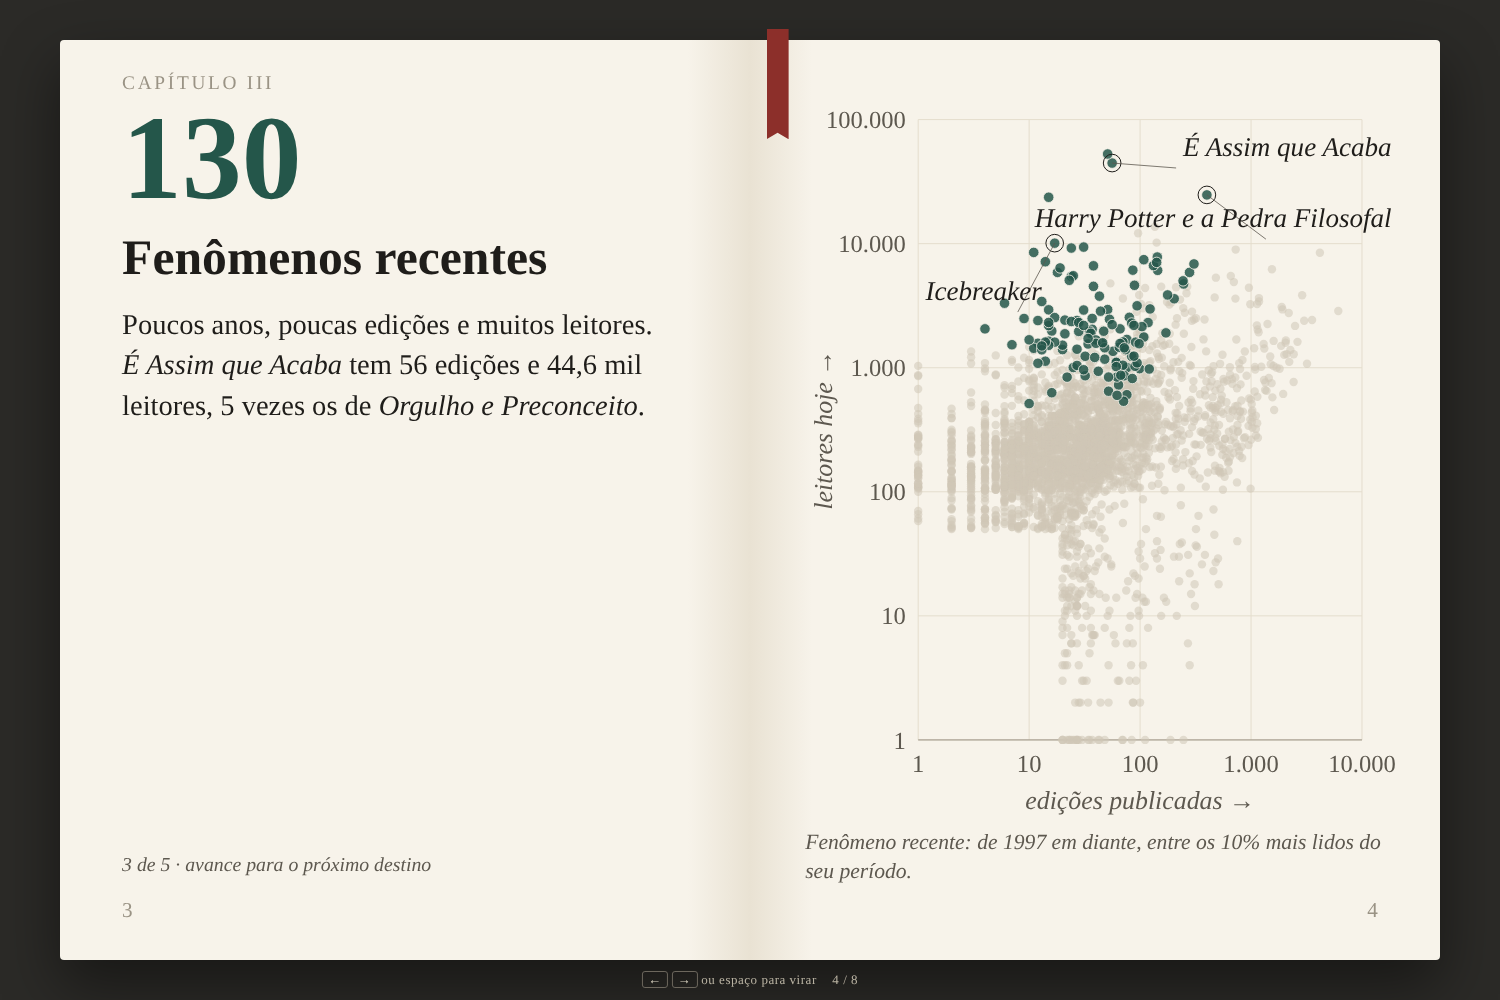
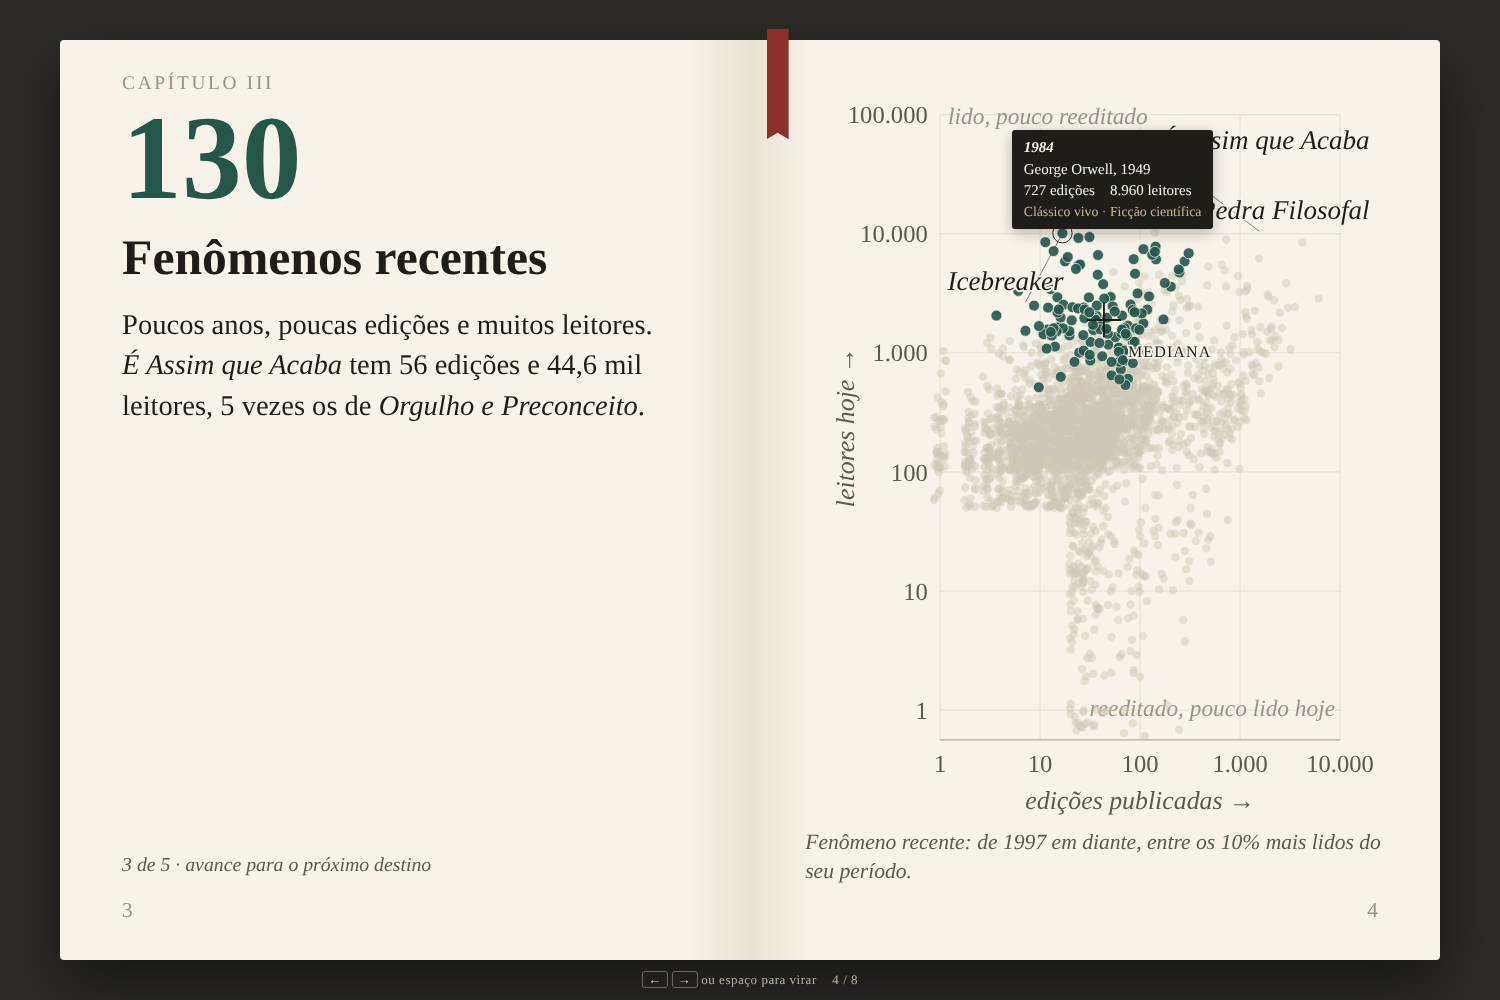
Livro: gráficos do capítulo III mais legíveis e interativos
- Espalhamento leve e fixo nos pontos, para desfazer as colunas de livros
  com 1, 2, 3... edições e a linha dos livros com 0 leitores
- Dica ao passar o mouse: título, autor, ano, edições, leitores, perfil e
  gênero do ponto mais próximo
- Os pontos mudam de cor com transição entre os passos, sem redesenhar
- Cruz na mediana de cada perfil (também nos painéis da fig. 2)
- Rótulos com contorno da cor do papel e nomes das regiões do gráfico
- Painéis da fig. 2 com letra maior
- Clique para virar a página passa a ser tratado no livro, para as zonas
  invisíveis não taparem o mouse sobre os gráficos

Refs #17

Claude-Session: https://claude.ai/code/session_01T3gWbEhrb4wQZiGx9BsJrq

diff --git a/livro/index.html b/livro/index.html
@@ -149,6 +149,22 @@ svg text { font-family: var(--serif); fill: var(--tinta-2); }
 .eixo line { stroke: var(--tinta-3); stroke-width: 1; }
 .grade line { stroke: #e4ddcd; stroke-width: 1; }
 .rotulo-livro { font-style: italic; fill: var(--tinta); }
+.halo { paint-order: stroke; stroke: var(--papel); stroke-width: 4px; stroke-linejoin: round; }
+.zona-graf { font-style: italic; fill: var(--tinta-3); }
+circle.pt { fill: var(--ponto); fill-opacity: .8; transition: fill .45s ease, fill-opacity .45s ease, r .45s ease; }
+circle.pt.apagado { fill-opacity: .45; }
+circle.pt.ativo { fill: var(--encadernacao); fill-opacity: .9; stroke: var(--papel); stroke-width: .8; }
+.mediana { stroke: var(--tinta); stroke-width: 2; fill: none; }
+.rotulo-mediana { fill: var(--tinta); font-variant-caps: all-small-caps; letter-spacing: .05em; }
+.dica {
+  position: absolute; z-index: 9; pointer-events: none; max-width: 30%;
+  background: var(--tinta); color: var(--papel); border-radius: 3px; padding: .55em .75em;
+  font-size: clamp(11px, 1.05vw, 15px); line-height: 1.3; display: grid; gap: .15em;
+  box-shadow: 0 4px 14px rgba(0,0,0,.25);
+}
+.dica b { font-weight: 600; font-style: italic; }
+.dica .linhas { display: flex; gap: 1em; font-variant-numeric: lining-nums tabular-nums; }
+.dica .perfil { color: #c9b98f; font-size: .92em; }
 .linha-rotulo { stroke: var(--tinta-2); stroke-width: .8; fill: none; }
 
 /* tabela do apêndice */
@@ -160,7 +176,8 @@ ol.notas { margin: 0; padding-left: 1.2em; display: grid; gap: 1.1cqh; font-size
 ol.notas li::marker { color: var(--encadernacao); font-weight: 600; }
 
 /* ---------- controles ---------- */
-.zona { position: absolute; top: 0; bottom: 0; width: 50%; z-index: 6; cursor: pointer; background: none; border: 0; }
+.zona { position: absolute; top: 0; bottom: 0; width: 50%; z-index: 6; background: none; border: 0; pointer-events: none; }
+.livro { cursor: pointer; }
 .zona.ant { left: 0; cursor: w-resize; }
 .zona.prox { right: 0; cursor: e-resize; }
 .zona:focus-visible { outline: 2px solid #c9b98f; outline-offset: -6px; }
@@ -186,6 +203,7 @@ ol.notas li::marker { color: var(--encadernacao); font-weight: 600; }
 }
 @media (prefers-reduced-motion: reduce) {
   .folha.vira, .folha.volta { animation-duration: .01s; }
+  circle.pt { transition: none; }
   .passo, .fita { transition: none; }
 }
 </style>
@@ -195,6 +213,7 @@ ol.notas li::marker { color: var(--encadernacao); font-weight: 600; }
   <div class="pagina esq" id="esq"></div>
   <div class="pagina dir" id="dir"></div>
   <div class="fita" id="fita" aria-hidden="true"></div>
+  <div class="dica" id="dica" role="tooltip" hidden></div>
   <button class="zona ant" id="ant" aria-label="Voltar"></button>
   <button class="zona prox" id="prox" aria-label="Avançar"></button>
 </div>
@@ -241,64 +260,122 @@ function el(nome, attrs, pai) {
 }
 const log = Math.log10;
 
-function dispersao(svg, opcoes) {
-  const {destaque = null, rotulos = [], compacto = false} = opcoes;
+// espalhamento leve e fixo (o mesmo a cada abertura) para desfazer as colunas
+// de livros com 1, 2, 3... edições ou leitores, que se empilhariam no mesmo ponto
+function sorte(id, sal) {
+  let h = 2166136261 ^ sal;
+  for (let i = 0; i < id.length; i++) { h ^= id.charCodeAt(i); h = Math.imul(h, 16777619); }
+  return ((h >>> 0) % 10000) / 10000 - .5;
+}
+function espalha(v, id, sal) {
+  const base = log(Math.max(v, 1));
+  const passoLog = v < 1 ? .3 : log((Math.max(v, 1) + 1) / Math.max(v, 1));   // distância até o próximo inteiro
+  const amp = Math.min(.12, passoLog * .8);
+  return base + sorte(id, sal) * amp - (v < 1 ? .16 : 0);                     // 0 leitores fica logo abaixo do 1
+}
+LIVROS.forEach(l => { l.lx = espalha(l.edicoes, l.id, 7); l.ly = espalha(l.leitores, l.id, 13); });
+
+function montarDispersao(svg, compacto) {
   const caixa = svg.getBoundingClientRect();
   const W = caixa.width, H = caixa.height;
-  const fs = compacto ? H * 0.06 : H * 0.034;
-  const m = compacto ? {t: fs * .4, r: fs * .4, b: fs * 1.6, l: fs * 2.6} : {t: fs, r: fs * 1.2, b: fs * 3.2, l: fs * 4.6};
+  const fs = compacto ? Math.max(9, H * .062) : H * .034;
+  const m = compacto ? {t: fs * .5, r: fs * .5, b: fs * 1.7, l: fs * 3.1} : {t: fs * .8, r: fs * 1.2, b: fs * 3.2, l: fs * 4.6};
   svg.setAttribute("viewBox", `0 0 ${W} ${H}`);
   svg.innerHTML = "";
-  const X = v => m.l + (log(Math.max(v, 1)) / 4) * (W - m.l - m.r);       // 1 a 10.000 edições
-  const Y = v => H - m.b - (log(Math.max(v, 1)) / 5) * (H - m.t - m.b);   // 1 a 100.000 leitores
-
-  const grade = el("g", {class: "grade"}, svg);
-  const eixo = el("g", {class: "eixo"}, svg);
-  const tx = compacto ? [1, 100, 10000] : [1, 10, 100, 1000, 10000];
-  const ty = compacto ? [1, 100, 10000] : [1, 10, 100, 1000, 10000, 100000];
-  tx.forEach(v => {
-    el("line", {x1: X(v), x2: X(v), y1: m.t, y2: H - m.b}, grade);
-    el("text", {x: X(v), y: H - m.b + fs * 1.3, "text-anchor": "middle", "font-size": fs}, eixo).textContent = fmt(v);
+  const X = lv => m.l + (lv / 4) * (W - m.l - m.r);            // log10 de 1 a 10.000 edições
+  const Y = lv => H - m.b - ((lv + .25) / 5.25) * (H - m.t - m.b); // log10 de ~0,5 a 100.000 leitores
+  const grade = el("g", {class: "grade"}, svg), eixo = el("g", {class: "eixo"}, svg);
+  (compacto ? [0, 2, 4] : [0, 1, 2, 3, 4]).forEach(e => {
+    el("line", {x1: X(e), x2: X(e), y1: m.t, y2: H - m.b}, grade);
+    el("text", {x: X(e), y: H - m.b + fs * 1.3, "text-anchor": "middle", "font-size": fs}, eixo).textContent = fmt(10 ** e);
   });
-  ty.forEach(v => {
-    el("line", {x1: m.l, x2: W - m.r, y1: Y(v), y2: Y(v)}, grade);
-    el("text", {x: m.l - fs * .5, y: Y(v) + fs * .35, "text-anchor": "end", "font-size": fs}, eixo).textContent = fmt(v);
+  (compacto ? [0, 2, 4] : [0, 1, 2, 3, 4, 5]).forEach(e => {
+    el("line", {x1: m.l, x2: W - m.r, y1: Y(e), y2: Y(e)}, grade);
+    el("text", {x: m.l - fs * .5, y: Y(e) + fs * .35, "text-anchor": "end", "font-size": fs}, eixo).textContent = fmt(10 ** e);
   });
   el("line", {x1: m.l, x2: W - m.r, y1: H - m.b, y2: H - m.b}, eixo);
   if (!compacto) {
     el("text", {x: (m.l + W - m.r) / 2, y: H - fs * .4, "text-anchor": "middle", "font-size": fs * 1.05, "font-style": "italic"}, eixo)
       .textContent = "edições publicadas →";
-    const ty2 = el("text", {x: 0, y: 0, "text-anchor": "middle", "font-size": fs * 1.05, "font-style": "italic",
-      transform: `translate(${fs * 1.1} ${(m.t + H - m.b) / 2}) rotate(-90)`}, eixo);
-    ty2.textContent = "leitores hoje →";
+    el("text", {x: 0, y: 0, "text-anchor": "middle", "font-size": fs * 1.05, "font-style": "italic",
+      transform: `translate(${fs * 1.1} ${(m.t + H - m.b) / 2}) rotate(-90)`}, eixo).textContent = "leitores hoje →";
+    // nomes das regiões do gráfico
+    const z = {class: "zona-graf", "font-size": fs * .95};
+    el("text", {...z, x: X(.08), y: Y(4.92)}, svg).textContent = "lido, pouco reeditado";
+    el("text", {...z, x: X(3.95), y: Y(-.05), "text-anchor": "end"}, svg).textContent = "reeditado, pouco lido hoje";
   }
-
-  const r = compacto ? Math.max(1.2, H * .0075) : Math.max(1.6, H * .0058);
-  const fundo = el("g", {}, svg), frente = el("g", {}, svg);
-  LIVROS.forEach(l => {
-    const ativo = destaque !== null && l.perfil === destaque;
-    el("circle", {
-      cx: X(l.edicoes), cy: Y(l.leitores), r: ativo ? r * 1.25 : r,
-      fill: ativo ? "var(--encadernacao)" : "var(--ponto)",
-      "fill-opacity": ativo ? .85 : (destaque === null ? .85 : .55),
-      stroke: ativo ? "var(--papel)" : "none", "stroke-width": ativo ? .8 : 0
-    }, ativo ? frente : fundo);
+  const r = compacto ? Math.max(1.3, H * .008) : Math.max(1.7, H * .0058);
+  const gPts = el("g", {}, svg);
+  const pts = LIVROS.map(l => {
+    const c = el("circle", {class: "pt", cx: X(l.lx), cy: Y(l.ly), style: `r:${r}px`}, gPts);
+    c._livro = l; return c;
   });
+  const gExtra = el("g", {}, svg);
+  svg._ctx = {W, H, fs, m, r, X, Y, pts, gPts, gExtra, compacto, destaque: undefined};
+  ligarDica(svg);
+  return svg._ctx;
+}
 
-  // rótulos: [id, dx, dy] em múltiplos do tamanho da fonte
+function destacar(svg, perfil, rotulos = []) {
+  const c = svg._ctx;
+  c.destaque = perfil;
+  c.pts.forEach(pt => {
+    const ativo = perfil !== null && pt._livro.perfil === perfil;
+    pt.classList.toggle("ativo", ativo);
+    pt.classList.toggle("apagado", perfil !== null && !ativo);
+    pt.style.r = (ativo ? c.r * 1.3 : c.r) + "px";
+    if (ativo) c.gPts.appendChild(pt);   // os do perfil ficam por cima
+  });
+  c.gExtra.innerHTML = "";
+  const {X, Y, fs} = c;
+  if (perfil !== null) {                 // mediana do perfil
+    const md = D.resumo[perfil];
+    const mx = X(log(Math.max(md.mediana_edicoes, 1))), my = Y(log(Math.max(md.mediana_leitores, 1)));
+    const t = fs * (c.compacto ? .55 : .7);
+    el("path", {class: "mediana", d: `M${mx - t} ${my}H${mx + t}M${mx} ${my - t}V${my + t}`}, c.gExtra);
+    if (!c.compacto) {
+      const tx = el("text", {class: "halo rotulo-mediana", x: mx + t * 1.4, y: my + fs * 1.5, "font-size": fs * .9}, c.gExtra);
+      tx.textContent = "mediana";
+    }
+  }
   rotulos.forEach(([id, dx, dy, ancora = "start"]) => {
     const l = L[id]; if (!l) return;
-    const x = X(l.edicoes), y = Y(l.leitores);
-    const lx = x + dx * fs, ly = y + dy * fs;
-    el("circle", {cx: x, cy: y, r: r * 2.1, fill: "none", stroke: "var(--tinta)", "stroke-width": 1}, svg);
-    el("path", {class: "linha-rotulo", d: `M${x} ${y} L${lx} ${ly}`}, svg);
-    const t = el("text", {class: "rotulo-livro", x: lx + (ancora === "end" ? -fs * .3 : fs * .3), y: ly + fs * .35,
-      "text-anchor": ancora, "font-size": fs * 1.1}, svg);
+    const x = X(l.lx), y = Y(l.ly), lx = x + dx * fs, ly = y + dy * fs;
+    el("circle", {cx: x, cy: y, r: c.r * 2.3, fill: "none", stroke: "var(--tinta)", "stroke-width": 1}, c.gExtra);
+    el("path", {class: "linha-rotulo", d: `M${x} ${y} L${lx} ${ly}`}, c.gExtra);
+    const t = el("text", {class: "rotulo-livro halo", x: lx + (ancora === "end" ? -fs * .3 : fs * .3), y: ly + fs * .35,
+      "text-anchor": ancora, "font-size": fs * 1.1}, c.gExtra);
     t.textContent = ROTULO[id] || l.titulo;
     const larg = t.getComputedTextLength();
-    if (ancora === "start" && lx + fs * .3 + larg > W) { t.setAttribute("text-anchor", "end"); t.setAttribute("x", W); t.setAttribute("y", ly - fs * .5); }
-    if (ancora === "end" && lx - fs * .3 - larg < m.l) { t.setAttribute("text-anchor", "start"); t.setAttribute("x", m.l + fs * .3); t.setAttribute("y", ly - fs * .5); }
+    if (ancora === "start" && lx + fs * .3 + larg > c.W) { t.setAttribute("text-anchor", "end"); t.setAttribute("x", c.W); t.setAttribute("y", ly - fs * .5); }
+    if (ancora === "end" && lx - fs * .3 - larg < c.m.l) { t.setAttribute("text-anchor", "start"); t.setAttribute("x", c.m.l + fs * .3); t.setAttribute("y", ly - fs * .5); }
   });
+}
+
+// dica ao passar o mouse: o ponto mais próximo do cursor, dentro de um raio generoso
+function ligarDica(svg) {
+  const dica = document.getElementById("dica");
+  svg.addEventListener("pointermove", e => {
+    const c = svg._ctx, cx = svg.getBoundingClientRect();
+    const px = (e.clientX - cx.left) * (c.W / cx.width), py = (e.clientY - cx.top) * (c.H / cx.height);
+    let melhor = null, dist = (c.compacto ? 10 : 14) ** 2;
+    for (const pt of c.pts) {
+      if (c.destaque !== null && c.destaque !== undefined && pt._livro.perfil !== c.destaque) continue;
+      const dx = +pt.getAttribute("cx") - px, dy = +pt.getAttribute("cy") - py, d = dx * dx + dy * dy;
+      if (d < dist) { dist = d; melhor = pt; }
+    }
+    if (!melhor) { dica.hidden = true; return; }
+    const l = melhor._livro, caixaLivro = $livro.getBoundingClientRect();
+    dica.innerHTML = `<b>${ROTULO[l.id] || l.titulo}</b><span>${l.autor}${l.ano ? ", " + l.ano : ""}</span>
+      <span class="linhas"><span>${fmt(l.edicoes)} edições</span><span>${fmt(l.leitores)} leitores</span></span>
+      <span class="perfil">${PERFIS[l.perfil]}${l.genero ? " · " + l.genero : ""}</span>`;
+    dica.hidden = false;
+    const x = e.clientX - caixaLivro.left, y = e.clientY - caixaLivro.top;
+    const esquerda = x > caixaLivro.width * .7;
+    dica.style.left = (esquerda ? x - dica.offsetWidth - 14 : x + 14) + "px";
+    dica.style.top = Math.max(4, y - dica.offsetHeight - 10) + "px";
+  });
+  svg.addEventListener("pointerleave", () => { dica.hidden = true; });
 }
 
 /* ---------------- capa: estante dos clássicos vivos ---------------- */
@@ -423,9 +500,9 @@ const SPREADS = [
             <figcaption style="font-size:2.5cqh"><span style="font-family:var(--serif-display);font-weight:600;font-size:1.15em">${PERFIS[i].replace(" / em alta", "")}</span> <span style="color:var(--tinta-2)">· ${fmt(D.resumo[i].livros)}</span></figcaption>
             <div style="flex:1;min-height:0"><svg class="grafico" id="mini${i}" role="img" aria-label="${PERFIS[i]}: ${D.resumo[i].livros} livros"></svg></div>
           </figure>`).join("")}
-        <p class="legenda" style="grid-column:1/-1;position:absolute;bottom:-5.5cqh">Fig. 2 · Mesmo gráfico da figura 1, um perfil por painel.</p>
+        <p class="legenda" style="grid-column:1/-1;position:absolute;bottom:-5.5cqh">Fig. 2 · Mesmo gráfico da figura 1, um perfil por painel. A cruz marca a mediana do perfil.</p>
       </div>`, folio: pagina("cap3") + 5}),
-    depois: () => [0, 1, 2, 3].forEach(i => dispersao(document.getElementById("mini" + i), {destaque: i, compacto: true}))
+    depois: () => [0, 1, 2, 3].forEach(i => { const g = document.getElementById("mini" + i); montarDispersao(g, true); destacar(g, i); })
   },
   { // 5 apêndice: tabelas
     nome: "apendice",
@@ -512,8 +589,9 @@ function textoPasso(p) {
     <p class="nota" style="border:0;font-style:italic">${p + 1} de ${PASSOS.length}${p < PASSOS.length - 1 ? " · avance para o próximo destino" : ""}</p>`;
 }
 function passoGrafico(p) {
-  const s = PASSOS[p];
-  dispersao(document.getElementById("disp"), {destaque: s.perfil, rotulos: s.rotulos});
+  const s = PASSOS[p], g = document.getElementById("disp");
+  if (!g._ctx) montarDispersao(g, false);
+  destacar(g, s.perfil, s.rotulos);
   document.getElementById("legenda-passo").textContent = s.legenda;
 }
 
@@ -528,7 +606,10 @@ function preencher(div, conteudo, lado) {
   div.innerHTML = (conteudo.cabeco ? `<div class="cabeco">${conteudo.cabeco}</div>` : "") + conteudo.html +
     (conteudo.folio !== undefined ? `<div class="folio">${conteudo.folio}</div>` : "");
 }
+const esconderDica = () => { document.getElementById("dica").hidden = true; };
+document.addEventListener("pointermove", e => { if (!e.target.closest || !e.target.closest("svg.grafico")) esconderDica(); });
 function desenhar() {
+  esconderDica();
   const s = SPREADS[atual];
   preencher($esq, s.esq(passo), "esq");
   preencher($dir, s.dir(passo), "dir");
@@ -590,6 +671,7 @@ function voltar() {
   virar(-1);
 }
 function atualizarPasso() {
+  esconderDica();
   const s = SPREADS[atual];
   document.getElementById("texto-passo").innerHTML = textoPasso(passo);
   s.depois(passo);
@@ -599,14 +681,16 @@ function irPara(i) {
   atual = i; passo = 0; lado = "esq"; desenhar();
 }
 
-// as zonas de clique cobrem as páginas; um link do sumário embaixo delas tem prioridade
-function clicar(e, acao) {
-  const alvo = document.elementsFromPoint(e.clientX, e.clientY).map(n => n.closest && n.closest("[data-ir]")).find(Boolean);
-  if (alvo) { irPara(SPREADS.findIndex(s => s.nome === alvo.dataset.ir)); return; }
-  acao();
-}
-document.getElementById("prox").addEventListener("click", e => clicar(e, avancar));
-document.getElementById("ant").addEventListener("click", e => clicar(e, voltar));
+// clique na metade direita avança, na esquerda volta; links do sumário têm prioridade.
+// Os botões .zona ficam só para o teclado e leitores de tela, sem tapar os gráficos.
+$livro.addEventListener("click", e => {
+  const alvo = e.target.closest("[data-ir]");
+  if (alvo) return;
+  const caixa = $livro.getBoundingClientRect();
+  (e.clientX - caixa.left > caixa.width / 2 ? avancar : voltar)();
+});
+document.getElementById("prox").addEventListener("click", e => { e.stopPropagation(); avancar(); });
+document.getElementById("ant").addEventListener("click", e => { e.stopPropagation(); voltar(); });
 document.addEventListener("keydown", e => {
   if (["ArrowRight", "PageDown", " ", "Enter"].includes(e.key)) { e.preventDefault(); avancar(); }
   else if (["ArrowLeft", "PageUp", "Backspace"].includes(e.key)) { e.preventDefault(); voltar(); }
